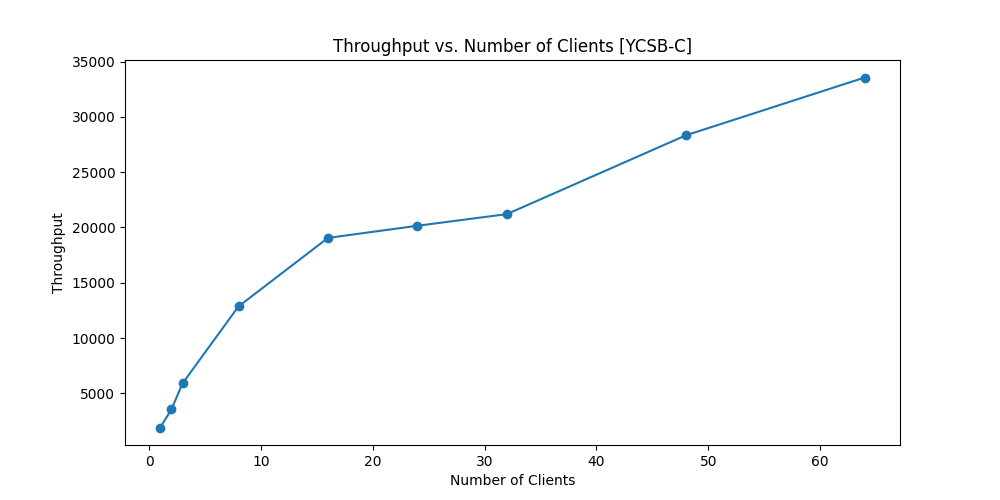
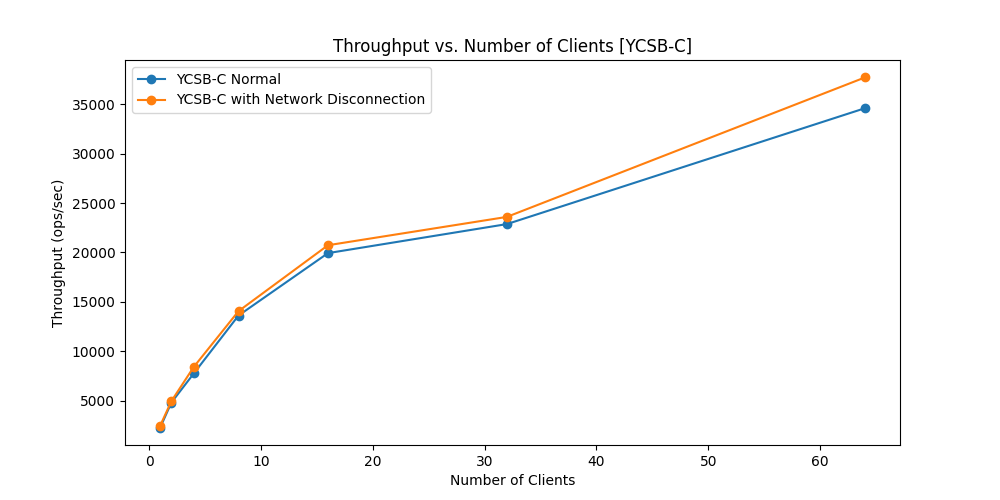
added script

diff --git a/plot/plot.py b/plot/plot.py
@@ -1,63 +1,52 @@
 import matplotlib.pyplot as plt
 
-# Data points for YCSB-C
-x_c = [1, 2, 3,  8, 16, 24, 32, 48, 64]
-y_c = [57618/30, 106487/30, 177518/30, 385978/30, 571756/30, 604704/30 ,636320/30, 849903/30, 1006773/30]
+# Data points for YCSB-A
+x_a = [1, 2, 4, 8, 16, 32, 64]
+y_a = [138.19, 163.06, 168.22, 168.01, 170.17, 171.75, 172.36]
+x_a_d = [1, 2, 4, 8, 16, 32, 64]
+y_a_d = [187.87, 62.94, 45.53, 43.08, 50.51, 53.36, 54.54]
 
-
-
-# Creating the plot for YCSB-C
+# Creating the plot for YCSB-A
 plt.figure(figsize=(10, 5))
-plt.plot(x_c, y_c, marker='o')  # Line plot with circle markers
-plt.title('Throughput vs. Number of Clients [YCSB-C]')
-plt.xlabel('Number of Clients')
-plt.ylabel('Throughput')
-plt.savefig('/home/Jamiroq/Documents/GitHub/myRabia/plot/throughput_plot-C.png')
-plt.close()  # Close the figure to prevent interference with the next plot
-
-# Data points for YCSB-B
-x_b = [1, 2, 3, 4, 8, 16, 24, 32, 48, 64]
-y_b = [29298/30, 46016/30, 62446/30, 66546/30,65821/30, 66792/30, 69188/30, 68087/30, 68666/30, 69389/30]
-
-# Creating the plot for YCSB-B
-plt.figure(figsize=(10, 5))
-plt.plot(x_b, y_b, marker='o')  # Line plot with circle markers
-plt.title('Throughput vs. Number of Clients [YCSB-B]')
-plt.xlabel('Number of Clients')
-plt.ylabel('Throughput')
-plt.savefig('/home/Jamiroq/Documents/GitHub/myRabia/plot/throughput_plot-B.png')
-plt.close()  # Close the figure to ensure no memory issues or overlapsimport matplotlib.pyplot as plt
-
-
-# Define the data points
-x_a = [1, 2, 3, 4, 8, 16, 24, 32, 48, 64]
-y_a = [5884/30, 6553/30, 6549/30, 6969/30, 6961/30, 6971/30, 6784/30, 6833/30, 6791/30, 6909/30]
-
-x_a_d = [1, 2, 3, 4, 8, 16, 24, 32, 48, 64]
-y_a_d = [5841/30, 4248/30, 1973/30, 2643/30,  1966/30, 2370/30, 2396/30, 2415/30, 2631/30, 2450/30]
-
-# Create a plot
-plt.figure(figsize=(10, 5))
-
-# Plot data for YCSB-A normal
 plt.plot(x_a, y_a, marker='o', label='YCSB-A Normal')
-
-# Plot data for YCSB-A degraded
 plt.plot(x_a_d, y_a_d, marker='o', label='YCSB-A with Network Disconnection')
-
-# Adding titles and labels
 plt.title('Throughput vs. Number of Clients [YCSB-A]')
 plt.xlabel('Number of Clients')
 plt.ylabel('Throughput (ops/sec)')
-
-# Adding a legend to distinguish the plots
 plt.legend()
-
-# Save the plot to a file
 plt.savefig('/home/Jamiroq/Documents/GitHub/myRabia/plot/throughput_plot-A.png')
+plt.close()
 
-# Show the plot
-plt.show()
+# Data points for YCSB-B
+x_b = [1, 2, 4, 8, 16, 32, 64]
+y_b = [1151.76, 1447.76, 1629.73, 1683.84, 1735.37, 1729.37, 1776.40]
+x_b_d = [1, 2, 4, 8, 16, 32, 64]
+y_b_d = [1012.59, 891.78, 468.95, 493.71, 528.60, 557.69, 557.69]
 
-# Close the plot
+# Creating the plot for YCSB-B
+plt.figure(figsize=(10, 5))
+plt.plot(x_b, y_b, marker='o', label='YCSB-B Normal')
+plt.plot(x_b_d, y_b_d, marker='o', label='YCSB-B with Network Disconnection')
+plt.title('Throughput vs. Number of Clients [YCSB-B]')
+plt.xlabel('Number of Clients')
+plt.ylabel('Throughput (ops/sec)')
+plt.legend()
+plt.savefig('/home/Jamiroq/Documents/GitHub/myRabia/plot/throughput_plot-B.png')
+plt.close()
+
+# Data points for YCSB-C
+x_c = [1, 2, 4, 8, 16, 32, 64]
+y_c = [2299.35, 4824.97, 7766.40, 13626.49, 19936.87, 22872.54, 34586.98]
+x_c_d = [1, 2, 4, 8, 16, 32, 64]
+y_c_d = [2490.84, 4968.88, 8424.45, 14066.70, 20734.94, 23600.02, 37699.64]
+
+# Creating the plot for YCSB-C
+plt.figure(figsize=(10, 5))
+plt.plot(x_c, y_c, marker='o', label='YCSB-C Normal')
+plt.plot(x_c_d, y_c_d, marker='o', label='YCSB-C with Network Disconnection')
+plt.title('Throughput vs. Number of Clients [YCSB-C]')
+plt.xlabel('Number of Clients')
+plt.ylabel('Throughput (ops/sec)')
+plt.legend()
+plt.savefig('/home/Jamiroq/Documents/GitHub/myRabia/plot/throughput_plot-C.png')
 plt.close()

diff --git a/replica/data.go b/replica/data.go
@@ -199,7 +199,9 @@ func handleConnection(conn net.Conn) {
 			//fmt.Println("Received Request: ", data)
 
 			if data.CommandData.Op[0] == 'R' {
+
 				value, err := parseReadCommand(data.CommandData.Op, StateMachine)
+				
 				if err == "notFound" {
 					response := ResponseToClient{Value: -1}
 					sendData(conn, response)
@@ -207,6 +209,8 @@ func handleConnection(conn net.Conn) {
 					response := ResponseToClient{Value: value}
 					sendData(conn, response)
 				}
+
+
 			} else if !data.Redirected {
 				data.Redirected = true
 				data.CommandData.ReplicaAddr = ownIP

diff --git a/replica/command.go b/replica/command.go
@@ -51,9 +51,11 @@ func parseReadCommand(command string, stateMachine map[string]int) (int, string)
 	parts := strings.Split(command, " ")
 	if len(parts) == 2 {
 		key := parts[1]
+
 		SMMutex.Lock()
 		value, ok := stateMachine[key]
 		SMMutex.Unlock()
+		
 		if !ok {
 			fmt.Println("Variable not found: ", key)
 			return 0, "notFound"
